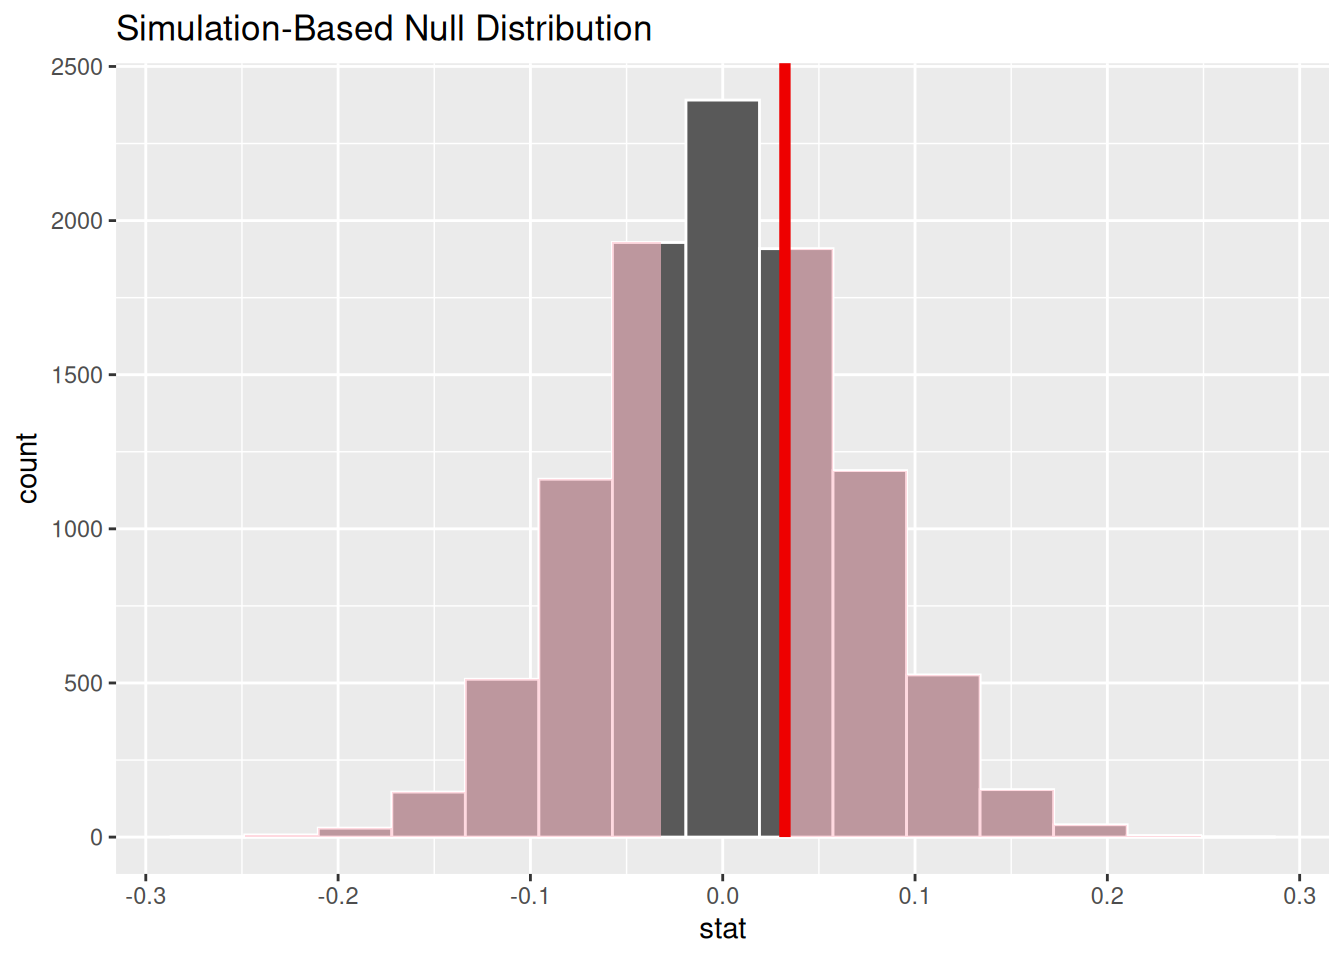
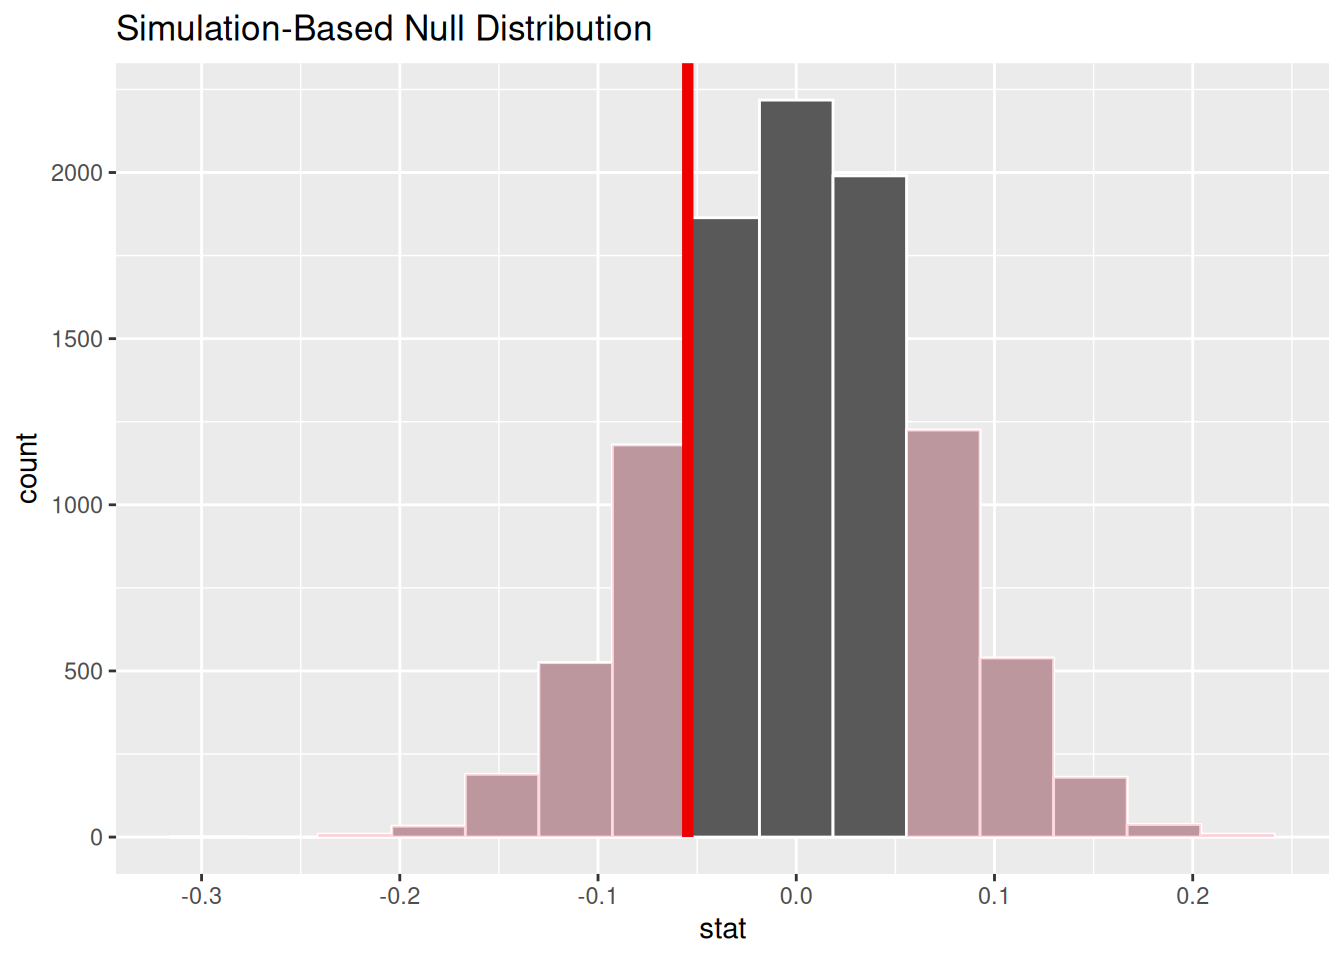
Geschlecht in Tests korrigiert

diff --git a/docs/09-tests-infer.html b/docs/09-tests-infer.html
@@ -428,7 +428,7 @@ window.Quarto = {
 <span id="cb1-6"><a href="#cb1-6" aria-hidden="true" tabindex="-1"></a>anreise <span class="ot">&lt;-</span> <span class="fu">c</span>(<span class="fu">runif</span>(<span class="at">n =</span> pop_size <span class="sc">*</span> <span class="fl">0.8</span>, <span class="at">min =</span> <span class="dv">5</span>, <span class="at">max =</span> <span class="dv">40</span>),</span>
 <span id="cb1-7"><a href="#cb1-7" aria-hidden="true" tabindex="-1"></a>             <span class="fu">runif</span>(<span class="at">n =</span> pop_size <span class="sc">*</span> <span class="fl">0.2</span>, <span class="at">min =</span> <span class="dv">60</span>, <span class="at">max =</span> <span class="dv">120</span>))</span>
 <span id="cb1-8"><a href="#cb1-8" aria-hidden="true" tabindex="-1"></a></span>
-<span id="cb1-9"><a href="#cb1-9" aria-hidden="true" tabindex="-1"></a>geschlecht <span class="ot">&lt;-</span> <span class="fu">sample</span>(<span class="fu">c</span>(<span class="st">'m'</span>, <span class="st">'w'</span>), <span class="at">size =</span> pop_size, <span class="at">replace =</span> <span class="cn">TRUE</span>)</span>
+<span id="cb1-9"><a href="#cb1-9" aria-hidden="true" tabindex="-1"></a>geschlecht <span class="ot">&lt;-</span> <span class="fu">sample</span>(<span class="fu">c</span>(<span class="st">'m'</span>, <span class="st">'w'</span>, <span class="st">'d'</span>), <span class="at">size =</span> pop_size, <span class="at">replace =</span> <span class="cn">TRUE</span>)</span>
 <span id="cb1-10"><a href="#cb1-10" aria-hidden="true" tabindex="-1"></a></span>
 <span id="cb1-11"><a href="#cb1-11" aria-hidden="true" tabindex="-1"></a>studienordnung <span class="ot">&lt;-</span> <span class="fu">sample</span>(<span class="fu">c</span>(<span class="st">'alt'</span>, <span class="st">'neu'</span>), <span class="at">size =</span> pop_size, <span class="at">replace =</span> <span class="cn">TRUE</span>)</span>
 <span id="cb1-12"><a href="#cb1-12" aria-hidden="true" tabindex="-1"></a></span>
@@ -465,7 +465,7 @@ window.Quarto = {
 <div class="cell-output-display">
 <div data-pagedtable="false">
   <script data-pagedtable-source="" type="application/json">
-{"columns":[{"label":["studienordnung"],"name":[1],"type":["chr"],"align":["left"]},{"label":["dauer"],"name":[2],"type":["dbl"],"align":["right"]}],"data":[{"1":"alt","2":"3.392754"},{"1":"neu","2":"3.511118"}],"options":{"columns":{"min":{},"max":[10]},"rows":{"min":[10],"max":[10]},"pages":{}}}
+{"columns":[{"label":["studienordnung"],"name":[1],"type":["chr"],"align":["left"]},{"label":["dauer"],"name":[2],"type":["dbl"],"align":["right"]}],"data":[{"1":"alt","2":"3.442786"},{"1":"neu","2":"3.522911"}],"options":{"columns":{"min":{},"max":[10]},"rows":{"min":[10],"max":[10]},"pages":{}}}
   </script>
 </div>
 </div>
@@ -474,7 +474,7 @@ window.Quarto = {
 <div class="cell">
 <div class="code-copy-outer-scaffold"><div class="sourceCode cell-code" id="cb5"><pre class="sourceCode r code-with-copy"><code class="sourceCode r"><span id="cb5-1"><a href="#cb5-1" aria-hidden="true" tabindex="-1"></a>stat_obs<span class="sc">$</span>dauer[<span class="dv">1</span>] <span class="sc">-</span> stat_obs<span class="sc">$</span>dauer[<span class="dv">2</span>]</span></code></pre></div><button title="In die Zwischenablage kopieren" class="code-copy-button"><i class="bi"></i></button></div>
 <div class="cell-output cell-output-stdout">
-<pre><code>[1] -0.1183631</code></pre>
+<pre><code>[1] -0.08012473</code></pre>
 </div>
 </div>
 <p>Wie verändert sich die Differenz, wenn wir zufälligerweise andere Studierende befragt hätten? Wir wählen neue Studierende aus und wiederholen die Berechnung des Mittelwerts der Studiendauer.</p>
@@ -491,12 +491,12 @@ window.Quarto = {
 <div class="cell-output-display">
 <div data-pagedtable="false">
   <script data-pagedtable-source="" type="application/json">
-{"columns":[{"label":["studienordnung"],"name":[1],"type":["chr"],"align":["left"]},{"label":["dauer"],"name":[2],"type":["dbl"],"align":["right"]}],"data":[{"1":"alt","2":"3.545039"},{"1":"neu","2":"3.512692"}],"options":{"columns":{"min":{},"max":[10]},"rows":{"min":[10],"max":[10]},"pages":{}}}
+{"columns":[{"label":["studienordnung"],"name":[1],"type":["chr"],"align":["left"]},{"label":["dauer"],"name":[2],"type":["dbl"],"align":["right"]}],"data":[{"1":"alt","2":"3.460554"},{"1":"neu","2":"3.515290"}],"options":{"columns":{"min":{},"max":[10]},"rows":{"min":[10],"max":[10]},"pages":{}}}
   </script>
 </div>
 </div>
 </div>
-<p>Für diese Gruppe der Befragten beträgt die Differenz der Mittelwerte 0.0323477.</p>
+<p>Für diese Gruppe der Befragten beträgt die Differenz der Mittelwerte -0.0547357.</p>
 </section>
 </section>
 <section id="workflow-in-infer" class="level2" data-number="8.2">
@@ -542,7 +542,7 @@ Abbildung&nbsp;8.1: Allgemeines Vorgehen bei Hypothesentests (Quelle: https://in
 <div class="cell-output-display">
 <div data-pagedtable="false">
   <script data-pagedtable-source="" type="application/json">
-{"columns":[{"label":["stat"],"name":[1],"type":["dbl"],"align":["right"]}],"data":[{"1":"0.03234768"}],"options":{"columns":{"min":{},"max":[10]},"rows":{"min":[10],"max":[10]},"pages":{}}}
+{"columns":[{"label":["stat"],"name":[1],"type":["dbl"],"align":["right"]}],"data":[{"1":"-0.05473572"}],"options":{"columns":{"min":{},"max":[10]},"rows":{"min":[10],"max":[10]},"pages":{}}}
   </script>
 </div>
 </div>
@@ -563,7 +563,7 @@ Abbildung&nbsp;8.1: Allgemeines Vorgehen bei Hypothesentests (Quelle: https://in
 </section>
 <section id="schritt-3-ergebnisse-darstellen" class="level3" data-number="8.3.3">
 <h3 data-number="8.3.3" class="anchored" data-anchor-id="schritt-3-ergebnisse-darstellen"><span class="header-section-number">8.3.3</span> Schritt 3: Ergebnisse darstellen</h3>
-<p>Wir stellen die Verteilung der Teststatistiken unter der Nullhypothese als ein Histogramm dar und zeichnen zusätzlich ein, wo sich die beobachtete Teststatistik (d.&nbsp;h. der beobachtete Unterschied der Mittelwerte) befindet als vertikale rote Linie. Die schattierten Bereiche zeigen Teststatistiken aus den Permutationen, die so extrem oder noch extremer sind, als die beobachtete Teststatistik von 0.0323477. Da unsere Alternativhypothese lautet, dass sich die Studiendauer verändert hat, betrachten wir extreme Werte sowohl bei der Verlängerung als auch bei der Verkürzung der Studiendauer als Evidenz gegen die Nullhypothese und zugunsten der Alternativhypothese. Daher färben wird die Bereiche links und spiegelbildlich rechts der beobachteten Teststatistik ein.</p>
+<p>Wir stellen die Verteilung der Teststatistiken unter der Nullhypothese als ein Histogramm dar und zeichnen zusätzlich ein, wo sich die beobachtete Teststatistik (d.&nbsp;h. der beobachtete Unterschied der Mittelwerte) befindet als vertikale rote Linie. Die schattierten Bereiche zeigen Teststatistiken aus den Permutationen, die so extrem oder noch extremer sind, als die beobachtete Teststatistik von -0.0547357. Da unsere Alternativhypothese lautet, dass sich die Studiendauer verändert hat, betrachten wir extreme Werte sowohl bei der Verlängerung als auch bei der Verkürzung der Studiendauer als Evidenz gegen die Nullhypothese und zugunsten der Alternativhypothese. Daher färben wird die Bereiche links und spiegelbildlich rechts der beobachteten Teststatistik ein.</p>
 <div class="cell">
 <div class="code-copy-outer-scaffold"><div class="sourceCode cell-code" id="cb10"><pre class="sourceCode r code-with-copy"><code class="sourceCode r"><span id="cb10-1"><a href="#cb10-1" aria-hidden="true" tabindex="-1"></a><span class="fu">visualize</span>(null_dist) <span class="sc">+</span></span>
 <span id="cb10-2"><a href="#cb10-2" aria-hidden="true" tabindex="-1"></a>  <span class="fu">shade_p_value</span>(<span class="at">obs_stat =</span> d_hat, <span class="at">direction =</span> <span class="st">"two-sided"</span>)</span></code></pre></div><button title="In die Zwischenablage kopieren" class="code-copy-button"><i class="bi"></i></button></div>
@@ -578,19 +578,19 @@ Abbildung&nbsp;8.1: Allgemeines Vorgehen bei Hypothesentests (Quelle: https://in
 </section>
 <section id="schritt-4-p-wert-berechnen-und-schlussfolgerungen-ziehen" class="level3" data-number="8.3.4">
 <h3 data-number="8.3.4" class="anchored" data-anchor-id="schritt-4-p-wert-berechnen-und-schlussfolgerungen-ziehen"><span class="header-section-number">8.3.4</span> Schritt 4: <span class="math inline">\(p\)</span>-Wert berechnen und Schlussfolgerungen ziehen</h3>
-<p>Der folgende Code berechnet den <span class="math inline">\(p\)</span>-Wert. Der <span class="math inline">\(p\)</span>-Wert gibt uns die Wahrscheinlichkeit an, eine Teststatistik (also die Differenz der Mittelwerte) so extrem oder noch extremer als 0.0323477 zu beobachten, wenn die Nullhypothese tatsächlich korrekt ist. In anderen Worten, wenn wir in <code>infer</code> Daten generieren unter der Nullhypothese (d.&nbsp;h. übereinstimmend mit der Nullhypothese), dann kommt eine Differenz von 0.0323477 oder noch größer und spiegelbildlich von -0.0323477 oder noch kleiner, mit einer Wahrscheinlichkeit von <span class="math inline">\(p\)</span> vor. Um den <span class="math inline">\(p\)</span>-Wert zu berechnen, rechnen wir den Anteil der eingefärbten Bereiche aus.</p>
+<p>Der folgende Code berechnet den <span class="math inline">\(p\)</span>-Wert. Der <span class="math inline">\(p\)</span>-Wert gibt uns die Wahrscheinlichkeit an, eine Teststatistik (also die Differenz der Mittelwerte) so extrem oder noch extremer als -0.0547357 zu beobachten, wenn die Nullhypothese tatsächlich korrekt ist. In anderen Worten, wenn wir in <code>infer</code> Daten generieren unter der Nullhypothese (d.&nbsp;h. übereinstimmend mit der Nullhypothese), dann kommt eine Differenz von -0.0547357 oder noch größer und spiegelbildlich von 0.0547357 oder noch kleiner, mit einer Wahrscheinlichkeit von <span class="math inline">\(p\)</span> vor. Um den <span class="math inline">\(p\)</span>-Wert zu berechnen, rechnen wir den Anteil der eingefärbten Bereiche aus.</p>
 <div class="cell">
 <div class="code-copy-outer-scaffold"><div class="sourceCode cell-code" id="cb11"><pre class="sourceCode r code-with-copy"><code class="sourceCode r"><span id="cb11-1"><a href="#cb11-1" aria-hidden="true" tabindex="-1"></a>null_dist <span class="sc">%&gt;%</span></span>
 <span id="cb11-2"><a href="#cb11-2" aria-hidden="true" tabindex="-1"></a>  <span class="fu">get_p_value</span>(<span class="at">obs_stat =</span> d_hat, <span class="at">direction =</span> <span class="st">"two-sided"</span>)</span></code></pre></div><button title="In die Zwischenablage kopieren" class="code-copy-button"><i class="bi"></i></button></div>
 <div class="cell-output-display">
 <div data-pagedtable="false">
   <script data-pagedtable-source="" type="application/json">
-{"columns":[{"label":["p_value"],"name":[1],"type":["dbl"],"align":["right"]}],"data":[{"1":"0.6192"}],"options":{"columns":{"min":{},"max":[10]},"rows":{"min":[10],"max":[10]},"pages":{}}}
+{"columns":[{"label":["p_value"],"name":[1],"type":["dbl"],"align":["right"]}],"data":[{"1":"0.3958"}],"options":{"columns":{"min":{},"max":[10]},"rows":{"min":[10],"max":[10]},"pages":{}}}
   </script>
 </div>
 </div>
 </div>
-<p>Wir sehen also, dass Differenzen zwischen den Mittelwerten von 0.0323477 oder noch größer und spiegelbildlich von -0.0323477 oder noch kleiner in 61.92% der Fälle vorkommen, wenn die Nullhypothese gilt. Eine solche Differenz ist also nichts Besonderes. Unser Signifikanzniveau ist <span class="math inline">\(\alpha = 0.05\)</span>. Da <span class="math inline">\(p &gt; \alpha\)</span>, behalten wir die Nullhypothese bei. Es gibt also keinen Unterschied in der Studiendauer zwischen der alten und der neuen Studienordnung.</p>
+<p>Wir sehen also, dass Differenzen zwischen den Mittelwerten von -0.0547357 oder noch größer und spiegelbildlich von 0.0547357 oder noch kleiner in 39.58% der Fälle vorkommen, wenn die Nullhypothese gilt. Eine solche Differenz ist also nichts Besonderes. Unser Signifikanzniveau ist <span class="math inline">\(\alpha = 0.05\)</span>. Da <span class="math inline">\(p &gt; \alpha\)</span>, behalten wir die Nullhypothese bei. Es gibt also keinen Unterschied in der Studiendauer zwischen der alten und der neuen Studienordnung.</p>
 </section>
 </section>
 <section id="aufgaben" class="level2" data-number="8.4">

diff --git a/docs/index.html b/docs/index.html
@@ -7,7 +7,7 @@
 <meta name="viewport" content="width=device-width, initial-scale=1.0, user-scalable=yes">
 
 <meta name="author" content="Christina Bogner">
-<meta name="dcterms.date" content="2025-12-03">
+<meta name="dcterms.date" content="2026-01-14">
 
 <title>Übung zur Vorlesung Statistik und Datenanalyse</title>
 <style>
@@ -353,7 +353,7 @@ div.csl-indent {
     <div>
     <div class="quarto-title-meta-heading">Veröffentlichungsdatum</div>
     <div class="quarto-title-meta-contents">
-      <p class="date">December 3, 2025</p>
+      <p class="date">January 14, 2026</p>
     </div>
   </div>
   
